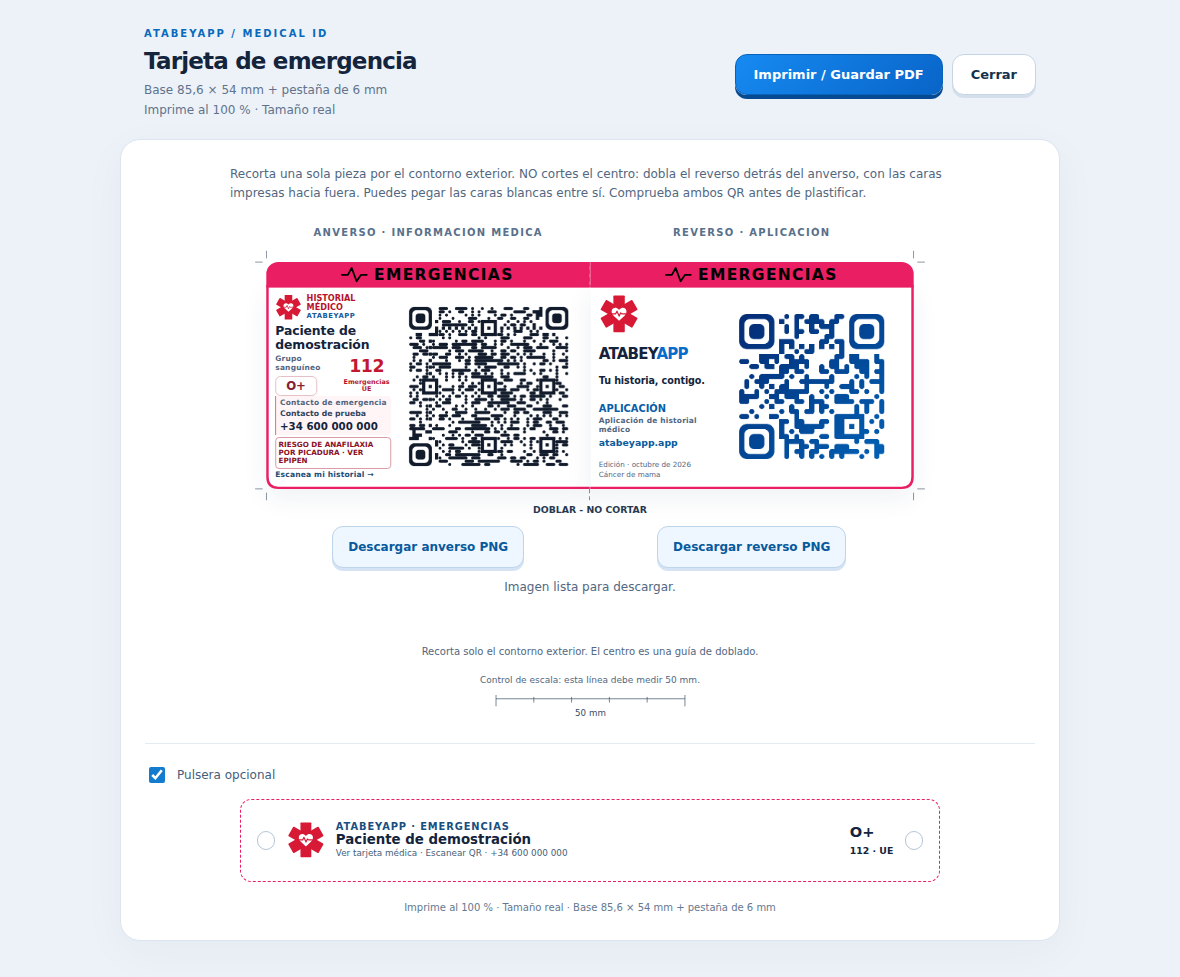
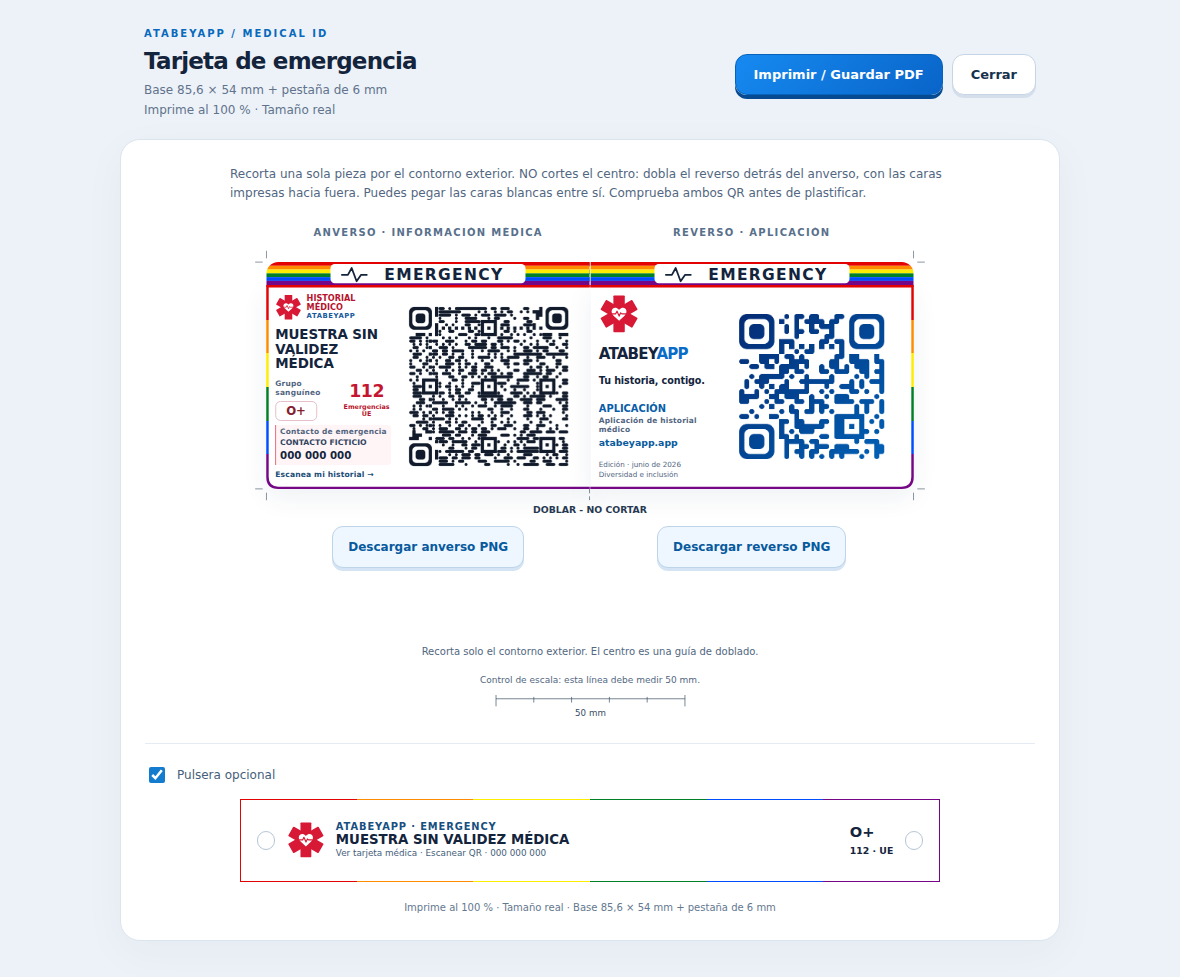
fix: rotular EMERGENCY en las tarjetas imprimibles
Sustituye tres rotulos de la tarjeta y pulsera; actualiza el ejemplo y la cache a v30. Regenera los doce meses con los QR y colores verificados. Conserva la logica y el contenido de los QR.

diff --git a/js/emergency-card.js b/js/emergency-card.js
@@ -35,7 +35,7 @@
     const shape=side==='front'?'M0 6.65V3.18A3.18 3.18 0 0 1 3.18 0H85.6V6.65Z':'M0 6.65V0H82.42A3.18 3.18 0 0 1 85.6 3.18V6.65Z';
     const id='pride-tab-'+side;
     const background=t.pride?`<defs><clipPath id="${id}"><path d="${shape}"/></clipPath></defs><g clip-path="url(#${id})">${PRIDE_COLORS.map((color,i)=>`<rect x="0" y="${i}" width="85.6" height="${i===5?1.65:1.005}" fill="${color}"/>`).join('')}</g><rect x="17" y=".55" width="51.6" height="5.05" rx="1.1" fill="#fff"/>`:`<path d="${shape}" fill="${t.color}"/>`;
-    return `<svg class="card-tab" viewBox="0 0 85.6 6.65" aria-label="EMERGENCIAS">${background}<path class="tab-pulse" d="M20 3.4h1.6l1-1.8 1.3 3.5 1.2-1.7h1.5" fill="none" stroke="${t.ink}" stroke-width=".47" stroke-linecap="round" stroke-linejoin="round"/><text x="47" y="4.65" text-anchor="middle" fill="${t.ink}" font-family="Arial,Helvetica,sans-serif" font-weight="900" font-size="4.1" letter-spacing=".35">EMERGENCIAS</text></svg>`;
+    return `<svg class="card-tab" viewBox="0 0 85.6 6.65" aria-label="EMERGENCY">${background}<path class="tab-pulse" d="M20 3.4h1.6l1-1.8 1.3 3.5 1.2-1.7h1.5" fill="none" stroke="${t.ink}" stroke-width=".47" stroke-linecap="round" stroke-linejoin="round"/><text x="47" y="4.65" text-anchor="middle" fill="${t.ink}" font-family="Arial,Helvetica,sans-serif" font-weight="900" font-size="4.1" letter-spacing=".35">EMERGENCY</text></svg>`;
   }
   function rim(t,side) {
     const id='pride-rim-'+side;
@@ -100,7 +100,7 @@
 *{box-sizing:border-box}body{margin:0;color:#13243c;background:#edf2f8;font-family:Arial,Helvetica,system-ui,sans-serif}button,input{font:inherit}.toolbar{display:flex;justify-content:space-between;gap:16px;align-items:center;flex-wrap:wrap;max-width:940px;margin:0 auto;padding:28px 24px 18px}.toolbar h1{font-size:23px;letter-spacing:-.8px;margin:0 0 6px;font-weight:850}.eyebrow{font-size:10px;font-weight:800;letter-spacing:2px;color:#0969bc;margin-bottom:9px}.toolbar p{font-size:12px;color:#61738c;margin:0;line-height:1.7}.actions{display:flex;gap:9px;flex-wrap:wrap}.actions button{border:1px solid #c5d5e6;background:#fff;color:#15314d;border-radius:12px;padding:12px 18px;font-size:13px;font-weight:750;cursor:pointer;box-shadow:0 3px 0 #d5dfeb}.actions .primary{background:linear-gradient(135deg,#168af1,#0964c8);color:#fff;border-color:#0762bc;box-shadow:0 4px 0 #064b91}.actions button:active{transform:translateY(2px);box-shadow:none}.actions button:disabled{opacity:.5;cursor:wait}.sheet{max-width:940px;margin:0 auto 36px;padding:25px 24px;background:#fff;border:1px solid #dce5ef;border-radius:20px;box-shadow:0 12px 45px #1436560a}.sheet-note{font-size:12px;line-height:1.6;max-width:720px;margin:0 auto 24px;color:#526781}.faces{--label-line:12px;position:relative;display:grid;grid-template-columns:85.6mm 85.6mm;gap:0;width:171.2mm;margin:0 auto;direction:ltr}.face-block{min-width:0}.face-label{height:var(--label-line);white-space:nowrap;overflow:hidden;text-overflow:ellipsis;line-height:1.2;direction:${rtl?'rtl':'ltr'};font-size:10px;letter-spacing:1.3px;font-weight:800;text-transform:uppercase;color:#58708b;margin:0 0 6mm;text-align:center}.face-host{position:relative;max-width:100%;margin:0 auto;height:60mm;width:85.6mm}.medical-card{position:absolute;left:50%;top:0;transform:translateX(-50%) scale(var(--card-scale,1));transform-origin:top center;width:85.6mm;height:60mm;direction:ltr;color:#13243c}.card-rim{position:absolute;top:6mm;left:0;width:85.6mm;height:54mm;z-index:3;pointer-events:none;overflow:visible}.card-tab{position:absolute;top:0;left:0;width:85.6mm;height:6.65mm;z-index:2;overflow:visible}.card-body{position:absolute;top:6mm;left:0;width:85.6mm;height:54mm;border:.65mm solid transparent;border-radius:0 0 0 3.18mm;background:#fff;box-shadow:0 9px 26px #1a3e6312;display:grid;grid-template-columns:minmax(0,1fr) 49mm;gap:1.3mm;padding:1.8mm;align-items:center}.card-details{display:flex;flex-direction:column;justify-content:space-between;height:49mm;min-width:0;direction:${rtl?'rtl':'ltr'}}.identity-brand{display:flex;align-items:center;gap:1.3mm;font-size:5.8pt;letter-spacing:.5px;font-weight:850;color:#155a9c;direction:ltr}.medical-badge{display:block;flex-shrink:0;width:7mm;height:7mm}.card-details>*{flex-shrink:0}.identity-brand span{line-height:1.25}.identity-brand .front-brand-purpose{line-height:1.05;font-size:6.1pt;letter-spacing:0;color:#b7132b}.identity-brand small{font-size:5.1pt;letter-spacing:.6px;color:#155a9c}.clinical-summary{display:flex;align-items:center;justify-content:space-between;gap:1mm}.contact-panel{border-inline-start:.5mm solid #d71936;border-radius:0 1mm 1mm 0;background:#fff5f7;padding:.8mm 1mm;min-width:0}.contact-name{white-space:nowrap;overflow:hidden;text-overflow:ellipsis;font-size:5.8pt;font-weight:700;line-height:1.1;color:#31445e;overflow-wrap:anywhere;margin-bottom:.5mm}.patient-name{font-size:10.1pt;line-height:1.07;font-weight:850;letter-spacing:-.1px;overflow-wrap:anywhere;margin:1mm 0;max-height:17mm}.detail-label{font-size:5.6pt;line-height:1.2;color:#52657f;font-weight:750;letter-spacing:.2px;margin-bottom:.55mm}.blood{display:inline-block;font-size:8.8pt;font-weight:900;line-height:1.1;color:#851f30;border:1px solid #e5c0c8;border-radius:1.4mm;padding:.65mm 1.5mm;min-width:11mm;text-align:center;direction:ltr}.contact-phone{font-size:7.7pt;line-height:1.15;font-weight:850;direction:ltr;unicode-bidi:isolate;overflow-wrap:anywhere}.emergency-call{display:flex;flex-direction:column;align-items:center;gap:.5mm;font-size:4.8pt;color:#b7132b;font-weight:750;line-height:1.15;max-width:13mm;text-align:center}.emergency-call strong{font-size:13pt;letter-spacing:-.5px;color:#c41630;direction:ltr}.medical-symbol{width:49mm;height:49mm;display:block}.qr-column{direction:ltr;text-align:center}.qr-caption{font-size:5.7pt;line-height:1.05;margin-top:.6mm;color:#204d77;font-weight:800;letter-spacing:.15px}.risk{font-size:5.4pt;font-weight:850;line-height:1.15;color:#8b1024;border:1px solid #db9ba7;border-radius:1mm;padding:.6mm;margin-top:.5mm;overflow-wrap:anywhere}.back .card-body{border-radius:0 0 3.18mm 0;grid-template-columns:minmax(0,1fr) 49mm;gap:.7mm}.back .card-details{justify-content:space-between}.back .medical-badge{width:10.5mm;height:10.5mm}.wordmark{font-size:11.3pt;font-weight:900;letter-spacing:-.8px;line-height:1.1;direction:ltr}.wordmark span{color:#086cc9}.tagline{font-size:7.2pt;line-height:1.2;font-weight:750;letter-spacing:-.1px}.open-app{color:#085da8;font-weight:850;font-size:7.4pt;line-height:1.2;margin-top:1mm}.app-site{font-size:7pt;color:#075b9e;font-weight:800;direction:ltr}.edition{font-size:5.4pt;line-height:1.3;color:#52657f;overflow-wrap:anywhere}.app-symbol{width:49mm;height:49mm;display:block}.band-settings{margin-top:25px;border-top:1px solid #e4ebf3;padding-top:20px;font-size:12px;color:#455e79;display:flex;gap:9px;align-items:center}.band-settings input{accent-color:#147cce;width:16px;height:16px}.band-section{margin-top:13px}.band-host{width:100%;overflow:hidden}.brace{height:22mm;width:185mm;border:.4mm dashed ${t.color};${t.pride?'border-image:linear-gradient(90deg,'+PRIDE_COLORS.map((color,i)=>color+' '+(i*100/6)+'% '+((i+1)*100/6)+'%').join(',')+') 1;':''}border-radius:3mm;display:flex;gap:3mm;align-items:center;padding:2.5mm 4mm;direction:ltr;margin:0 auto;color:#13243c;transform-origin:top left}.brace .medical-badge{width:10mm;height:10mm}.brace-details{min-width:0;flex:1;direction:${rtl?'rtl':'ltr'}}.brace-title{font-size:7.4pt;font-weight:900;letter-spacing:.9px;color:#174f80}.brace-name{font-size:10pt;line-height:1.2;font-weight:850;overflow-wrap:anywhere}.brace-help{font-size:6.6pt;color:#455e79;line-height:1.3}.brace-meta{font-size:11pt;font-weight:900;white-space:nowrap;direction:ltr}.grommet{border:.3mm solid #b6c6d7;width:5mm;height:5mm;border-radius:50%;flex-shrink:0}.card-download{display:block;max-width:100%;margin:10mm auto 0;padding:11px 15px;min-height:42px;border:1px solid #bed4e9;border-radius:11px;background:#eef6ff;color:#075a9d;font:750 12px Arial,Helvetica,sans-serif;cursor:pointer;box-shadow:0 3px 0 #d4e4f4}.card-download:disabled{opacity:.55;cursor:wait}.download-status{min-height:1.5em;margin:12px 0 0;text-align:center;color:#526781;font-size:12px}.bottom-note{font-size:10px;line-height:1.5;color:#64788f;text-align:center;margin:18px 0 0}.joined-cut-marks{position:absolute;left:50%;top:calc(var(--label-line) + 2mm);transform:translateX(-50%);width:179.2mm;height:68mm;overflow:visible;pointer-events:none}.fold-line{position:absolute;left:0;top:calc(var(--label-line) + 6mm);width:171.2mm;height:64mm;overflow:visible;pointer-events:none}.fold-caption{position:absolute;left:50%;top:calc(var(--label-line) + 70mm);transform:translateX(-50%);font-size:7pt;line-height:1.2;font-weight:800;color:#283a52;white-space:nowrap;text-align:center;direction:${rtl?'rtl':'ltr'}}.cut-guide{font-size:10px;line-height:1.5;color:#526781;text-align:center;margin:12mm 0 0}.scale-check{margin:4mm auto 0;text-align:center;font-size:9px;line-height:1.5;color:#526781}.scale-check svg{display:block;width:50mm;height:6mm;margin:2mm auto 0;overflow:visible;direction:ltr}.muted{color:#6b8099}body[data-card-error]{display:grid;min-height:90vh;place-content:center;padding:28px;text-align:center;background:#edf2f8}body[data-card-error] p{max-width:500px;line-height:1.6}
 @media screen and (max-width:760px){.faces{width:100%;grid-template-columns:1fr;gap:28px}.joined-cut-marks,.fold-line,.fold-caption{display:none}.toolbar{padding:20px 16px 16px}.toolbar h1{font-size:21px}.sheet{margin:0 10px 22px;padding:20px 12px;border-radius:16px}.sheet-note{font-size:11px}.actions{width:100%}.actions button{flex:1}.face-label{font-size:9px}.band-settings{margin-top:22px}}
 @page{size:A4 portrait;margin:12mm}@media print{html,body{margin:0;padding:0;background:#fff;color:#13243c;print-color-adjust:exact;-webkit-print-color-adjust:exact}.toolbar,.sheet-note,.band-settings,.bottom-note,.card-download,.download-status{display:none!important}.sheet{width:186mm;max-width:none;padding:0;margin:0;border:0;border-radius:0;box-shadow:none}.faces{--label-line:7.44pt;width:171.2mm;max-width:none;margin:0 auto;display:grid;grid-template-columns:85.6mm 85.6mm;gap:0;justify-content:center;break-inside:avoid;direction:ltr}.face-label{font-size:6.2pt;margin:0 0 6mm;color:#52657f}.face-host{width:85.6mm!important;height:60mm!important;max-width:none}.medical-card{position:relative;left:0;transform:none!important}.card-body{box-shadow:none}.band-section{margin-top:12mm;break-inside:avoid}.band-host{width:185mm;height:22mm!important;overflow:visible}.brace{transform:none!important}.cut-guide{font-size:6pt;margin:12mm 0 0}.scale-check{font-size:6pt;break-inside:avoid}.sheet[dir=rtl] .faces{direction:ltr}}
-</style></head><body><header class="toolbar"><div><div class="eyebrow">ATABEYAPP / MEDICAL ID</div><h1>${esc(w[0])}</h1><p>${esc(w[21])}<br>${esc(w[14])}</p></div><div class="actions"><button class="primary" id="card-print" type="button">${esc(w[3])}</button><button id="card-close" type="button">${esc(w[4])}</button></div></header><main class="sheet" dir="${rtl?'rtl':'ltr'}"><p class="sheet-note">${esc(w[13])}</p><div class="faces">${joinedGuides}<div class="fold-caption">${esc(fold[0])}</div><section class="face-block"><h2 class="face-label">${esc(w[1])}</h2><div class="face-host"><article class="medical-card front" data-theme="${t.pride?'pride':'monthly'}" aria-label="${esc(w[1])}">${tab(t,'front')}<div class="card-body"><div class="card-details"><div class="identity-brand">${medicalBadge}<span class="front-brand-purpose">${esc(ui[0])}<br><small>ATABEYAPP</small></span></div><div class="patient-name">${esc(name)}</div><div class="clinical-summary">${blood?`<div><div class="detail-label">${esc(w[5])}</div><div class="blood">${esc(blood)}</div></div>`:''}<div class="emergency-call"><strong>112</strong><span>${esc(w[7])}</span></div></div>${phone?`<div class="contact-panel"><div class="detail-label">${esc(w[6])}</div>${profile.ec1_name?`<div class="contact-name">${esc(profile.ec1_name)}</div>`:''}<div class="contact-phone">${esc(phone)}</div></div>`:''}${risk?`<div class="risk">${esc(w[19])}</div>`:''}<div class="qr-caption">${esc(w[8])} →</div></div><div class="qr-column"><img class="medical-symbol" id="qcf" alt="${esc(w[8])}" src="${patientImage}"></div></div>${rim(t,'front')}</article></div><button class="card-download" data-card-side="front" type="button">${esc(ui[2])}</button></section><section class="face-block"><h2 class="face-label">${esc(w[2])}</h2><div class="face-host"><article class="medical-card back" data-theme="${t.pride?'pride':'monthly'}" aria-label="${esc(w[2])}">${tab(t,'back')}<div class="card-body"><div class="card-details">${medicalBadge}<div class="wordmark">ATABEY<span>APP</span></div><div class="tagline">${esc(w[9])}</div><div><div class="open-app">${esc(ui[1])}</div><div class="detail-label" style="margin-top:.6mm">${esc(w[11])}</div><div class="app-site">atabeyapp.app</div></div><div class="edition">${esc(w[20])} · ${esc(edition)}<br>${esc(t.cause)}</div></div><img class="app-symbol" id="qcb" alt="${esc(w[10])}" src="${appImage}"></div>${rim(t,'back')}</article></div><button class="card-download" data-card-side="back" type="button">${esc(ui[3])}</button></section></div><p class="download-status" id="card-download-status" role="status" aria-live="polite"></p><p class="cut-guide">${esc(fold[1])}</p><div class="scale-check"><span>${esc(hints[1])}</span><svg id="print-scale" viewBox="0 0 50 6" aria-label="50 mm"><path d="M0 1H50M0 0V3M10 .5V2M20 .5V2M30 .5V2M40 .5V2M50 0V3" fill="none" stroke="#384c64" stroke-width=".18"/><text x="25" y="5.5" fill="#384c64" text-anchor="middle" font-family="Arial,Helvetica,sans-serif" font-size="2.3">50 mm</text></svg></div><label class="band-settings"><input type="checkbox" id="include-band" checked>${esc(w[12])}</label><section class="band-section" id="card-band"><div class="band-host"><div class="brace"><div class="grommet"></div>${medicalBadge}<div class="brace-details"><div class="brace-title">ATABEYAPP · EMERGENCIAS</div><div class="brace-name">${esc(name)}</div><div class="brace-help">${esc(w[18])}${phone?' · '+esc(phone):''}</div></div><div class="brace-meta">${esc(blood)}<br><span style="font-size:7pt">112 · UE</span></div><div class="grommet"></div></div></div></section><p class="bottom-note">${esc(w[14])} · ${esc(w[21])}</p></main></body></html>`;
+</style></head><body><header class="toolbar"><div><div class="eyebrow">ATABEYAPP / MEDICAL ID</div><h1>${esc(w[0])}</h1><p>${esc(w[21])}<br>${esc(w[14])}</p></div><div class="actions"><button class="primary" id="card-print" type="button">${esc(w[3])}</button><button id="card-close" type="button">${esc(w[4])}</button></div></header><main class="sheet" dir="${rtl?'rtl':'ltr'}"><p class="sheet-note">${esc(w[13])}</p><div class="faces">${joinedGuides}<div class="fold-caption">${esc(fold[0])}</div><section class="face-block"><h2 class="face-label">${esc(w[1])}</h2><div class="face-host"><article class="medical-card front" data-theme="${t.pride?'pride':'monthly'}" aria-label="${esc(w[1])}">${tab(t,'front')}<div class="card-body"><div class="card-details"><div class="identity-brand">${medicalBadge}<span class="front-brand-purpose">${esc(ui[0])}<br><small>ATABEYAPP</small></span></div><div class="patient-name">${esc(name)}</div><div class="clinical-summary">${blood?`<div><div class="detail-label">${esc(w[5])}</div><div class="blood">${esc(blood)}</div></div>`:''}<div class="emergency-call"><strong>112</strong><span>${esc(w[7])}</span></div></div>${phone?`<div class="contact-panel"><div class="detail-label">${esc(w[6])}</div>${profile.ec1_name?`<div class="contact-name">${esc(profile.ec1_name)}</div>`:''}<div class="contact-phone">${esc(phone)}</div></div>`:''}${risk?`<div class="risk">${esc(w[19])}</div>`:''}<div class="qr-caption">${esc(w[8])} →</div></div><div class="qr-column"><img class="medical-symbol" id="qcf" alt="${esc(w[8])}" src="${patientImage}"></div></div>${rim(t,'front')}</article></div><button class="card-download" data-card-side="front" type="button">${esc(ui[2])}</button></section><section class="face-block"><h2 class="face-label">${esc(w[2])}</h2><div class="face-host"><article class="medical-card back" data-theme="${t.pride?'pride':'monthly'}" aria-label="${esc(w[2])}">${tab(t,'back')}<div class="card-body"><div class="card-details">${medicalBadge}<div class="wordmark">ATABEY<span>APP</span></div><div class="tagline">${esc(w[9])}</div><div><div class="open-app">${esc(ui[1])}</div><div class="detail-label" style="margin-top:.6mm">${esc(w[11])}</div><div class="app-site">atabeyapp.app</div></div><div class="edition">${esc(w[20])} · ${esc(edition)}<br>${esc(t.cause)}</div></div><img class="app-symbol" id="qcb" alt="${esc(w[10])}" src="${appImage}"></div>${rim(t,'back')}</article></div><button class="card-download" data-card-side="back" type="button">${esc(ui[3])}</button></section></div><p class="download-status" id="card-download-status" role="status" aria-live="polite"></p><p class="cut-guide">${esc(fold[1])}</p><div class="scale-check"><span>${esc(hints[1])}</span><svg id="print-scale" viewBox="0 0 50 6" aria-label="50 mm"><path d="M0 1H50M0 0V3M10 .5V2M20 .5V2M30 .5V2M40 .5V2M50 0V3" fill="none" stroke="#384c64" stroke-width=".18"/><text x="25" y="5.5" fill="#384c64" text-anchor="middle" font-family="Arial,Helvetica,sans-serif" font-size="2.3">50 mm</text></svg></div><label class="band-settings"><input type="checkbox" id="include-band" checked>${esc(w[12])}</label><section class="band-section" id="card-band"><div class="band-host"><div class="brace"><div class="grommet"></div>${medicalBadge}<div class="brace-details"><div class="brace-title">ATABEYAPP · EMERGENCY</div><div class="brace-name">${esc(name)}</div><div class="brace-help">${esc(w[18])}${phone?' · '+esc(phone):''}</div></div><div class="brace-meta">${esc(blood)}<br><span style="font-size:7pt">112 · UE</span></div><div class="grommet"></div></div></div></section><p class="bottom-note">${esc(w[14])} · ${esc(w[21])}</p></main></body></html>`;
   }
   async function open(config) {
     const w=words[config.language]||words.es;

diff --git a/index.html b/index.html
@@ -24,7 +24,7 @@
        byte a byte del original, verificada contra este mismo hash. -->
   <script src="/vendor/qrcodejs/qrcode.min.js" integrity="sha384-3zSEDfvllQohrq0PHL1fOXJuC/jSOO34H46t6UQfobFOmxE5BpjjaIJY5F2/bMnU"></script>
   <script src="/vendor/lz-string/lz-string-1.4.4.min.js" integrity="sha384-+pWnyi8LtZx+cgXfD2arWgUX7pHIaEL215cEPPk9WrsegNlgvDL9DNjaqsceQq6o"></script>
-  <script src="/js/register-sw.js?v=29"></script>
+  <script src="/js/register-sw.js?v=30"></script>
   <script src="i18n/loader.js?v=14"></script>
   <style>
     /* ===== MENÚ HAMBURGUESA (Pantalla principal) ===== */
@@ -2551,8 +2551,8 @@
   <script src="js/validation.js?v=14"></script>
   <script src="js/search.js?v=12"></script>
   <script src="js/form.js?v=19"></script>
-  <script src="js/card-png.js?v=29"></script>
-  <script src="js/emergency-card.js?v=29"></script>
+  <script src="js/card-png.js?v=30"></script>
+  <script src="js/emergency-card.js?v=30"></script>
   <script src="js/qr-generator.js?v=25"></script>
 
   <!-- TOUR ONBOARDING + BOTÓN AYUDA -->

diff --git a/sw.js b/sw.js
@@ -16,7 +16,7 @@
 // v5: precarga la capa visual para conservarla al abrir la app sin red.
 // v6: actualiza el dibujo orgánico del QR, conservando sus datos.
 // v7: incluye la recuperación segura del autenticador.
-const CACHE_NAME = 'doctorqr-v29';
+const CACHE_NAME = 'doctorqr-v30';
 const CACHE_URLS = [
   '/',
   './index.html',
@@ -40,14 +40,14 @@ const CACHE_URLS = [
   './js/web-qr-preview.js?v=22',
   './js/totp-recovery.js?v=14',
   './js/qr-generator.js?v=25',
-  './js/card-png.js?v=29',
-  './js/emergency-card.js?v=29',
+  './js/card-png.js?v=30',
+  './js/emergency-card.js?v=30',
   './js/medical-owner.js?v=24',
   './js/birthdate.js?v=14',
   './js/profile-sync.js?v=24',
   './js/form.js?v=19',
   './js/form-accessibility.js?v=12.1',
-  './js/register-sw.js?v=29',
+  './js/register-sw.js?v=30',
   './js/web-session.js?v=24',
   './js/web-link.js?v=15',
   './js/web-link.js?v=18',

diff --git a/emergencia.html b/emergencia.html
@@ -40,8 +40,8 @@
        (renderEmergencyQuickView(), en js/qr-generator.js) -->
   <div id="emergency-quick-view" style="display:none"></div>
 
-  <script src="js/card-png.js?v=29"></script>
-  <script src="js/emergency-card.js?v=29"></script>
+  <script src="js/card-png.js?v=30"></script>
+  <script src="js/emergency-card.js?v=30"></script>
   <script src="js/qr-generator.js?v=25"></script>
   <script>
     // handleEmergencyQuickAccess() vive en js/qr-generator.js, compartida

diff --git a/login.html b/login.html
@@ -845,8 +845,8 @@
      (renderEmergencyQuickView(), en js/qr-generator.js) -->
 <div id="emergency-quick-view" style="display:none"></div>
 
-<script src="js/card-png.js?v=29"></script>
-  <script src="js/emergency-card.js?v=29"></script>
+<script src="js/card-png.js?v=30"></script>
+  <script src="js/emergency-card.js?v=30"></script>
 <script src="js/qr-generator.js?v=25"></script>
 <script>
 const API = 'https://doctorqr-backend-production.up.railway.app';

diff --git a/docs/TARJETA-EMERGENCIA-2026.md b/docs/TARJETA-EMERGENCIA-2026.md
@@ -14,7 +14,7 @@ El botón «Imprimir QR emergencia — formato tarjeta» genera anverso y revers
 
 ## Junio: arcoíris LGTBIQ+
 
-Junio, ya destinado a «Diversidad e inclusión», pasa a una franja y un contorno multicolores. La paleta utilizada en el diseño es rojo `#E40303`, naranja `#FF8C00`, amarillo `#FFED00`, verde `#008026`, azul `#004DFF` y violeta `#750787`. La palabra EMERGENCIAS descansa sobre una zona blanca para conservar contraste. El pictograma médico permanece rojo y los QR conservan sus colores de lectura.
+Junio, ya destinado a «Diversidad e inclusión», pasa a una franja y un contorno multicolores. La paleta utilizada en el diseño es rojo `#E40303`, naranja `#FF8C00`, amarillo `#FFED00`, verde `#008026`, azul `#004DFF` y violeta `#750787`. La palabra EMERGENCY descansa sobre una zona blanca para conservar contraste. El pictograma médico permanece rojo y los QR conservan sus colores de lectura.
 
 La referencia del arcoíris de seis franjas puede consultarse en [National Archives](https://prologue.blogs.archives.gov/2022/06/03/facial-hair-friday-gilbert-baker-and-the-rainbow-flag/) y [MoMA](https://www.moma.org/momaorg/shared/pdfs/docs/learn/mondays/Gilbert-Baker-Design-a-flag.pdf). Estos son colores elegidos para la representación gráfica, no una afirmación de códigos oficiales únicos. Los otros once meses conservan sus colores y temas configurados; algunos colores se repiten. La colección no es un calendario oficial de efemérides.
 
@@ -24,7 +24,7 @@ Las dos imágenes QR siguen midiendo **49 × 49 mm**, incluido el margen blanco 
 
 El QR médico conserva `buildEmergencyQRUrl()`: `https://atabeyapp.app/card.html?id=IDENTIFICADOR&t=emergency`. El lector sigue consultando el perfil confirmado y verificando la identidad. El azul conserva `https://atabeyapp.app`. El margen blanco de cuatro módulos se mantiene según [DENSO WAVE](https://www.qrcode.com/en/howto/code.html/index.html).
 
-No se cambian el formulario, el lector clínico, los ocho QR, el cifrado del backend, las credenciales, los planes ni los pagos. La generación y exportación continúan vinculadas a la cuenta y a la instantánea confirmada. Un cambio de cuenta o perfil retira la vista anterior y cancela una descarga pendiente. No hay escrituras de perfil ni servicios de imagen externos. La actualización instalada usa `doctorqr-v29`.
+No se cambian el formulario, el lector clínico, los ocho QR, el cifrado del backend, las credenciales, los planes ni los pagos. La generación y exportación continúan vinculadas a la cuenta y a la instantánea confirmada. Un cambio de cuenta o perfil retira la vista anterior y cancela una descarga pendiente. No hay escrituras de perfil ni servicios de imagen externos. La actualización instalada usa `doctorqr-v30`.
 
 ## PNG y colección de muestras
 
